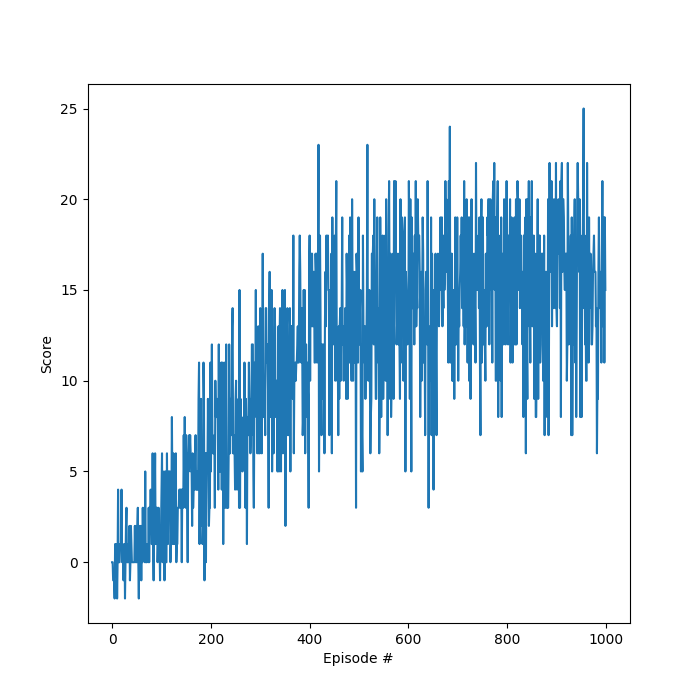
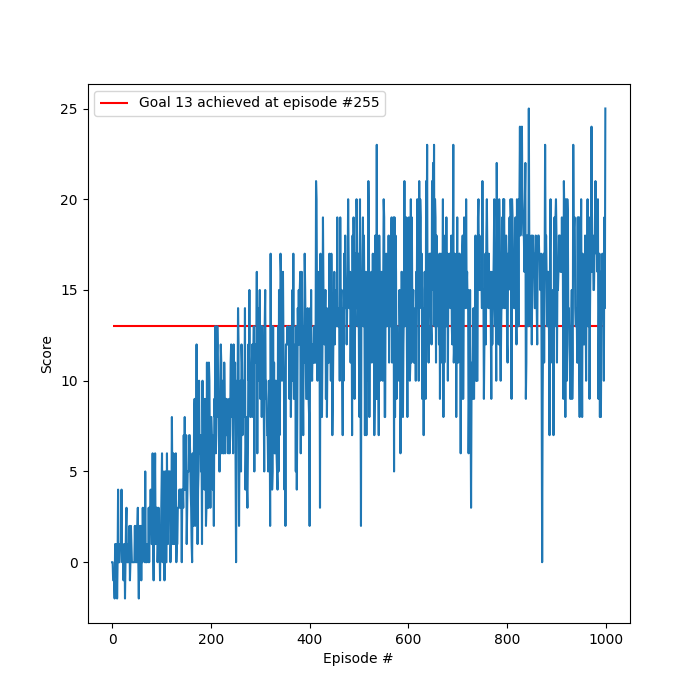
Update plot and add first solved episode

Changed region(s): [[0.24, 0.15, 0.87, 0.81], [0.15, 0.12, 0.54, 0.18]]

diff --git a/Report.md b/Report.md
@@ -10,7 +10,7 @@ details.
 
 #### Training
 
-| Name | Value | 
+| Name           | Value    | 
 | ---            | ---      |
 | episodes       | 1000     |
 | max time steps | 1000     |
@@ -20,7 +20,7 @@ details.
 
 #### Agent
 
-| Name | Value | 
+| Name           | Value    | 
 | ---            | ---      |
 | buffer size    | 10,000   | 
 | batch size     | 64       | 
@@ -39,6 +39,8 @@ The Neural Network architecture used was:
 4. 4 out linear action value vector
 
 ## Plot of Rewards
+
+The agent achieved an average score of 13 at episode 494.
 
 ![](img/performance.png)
 
